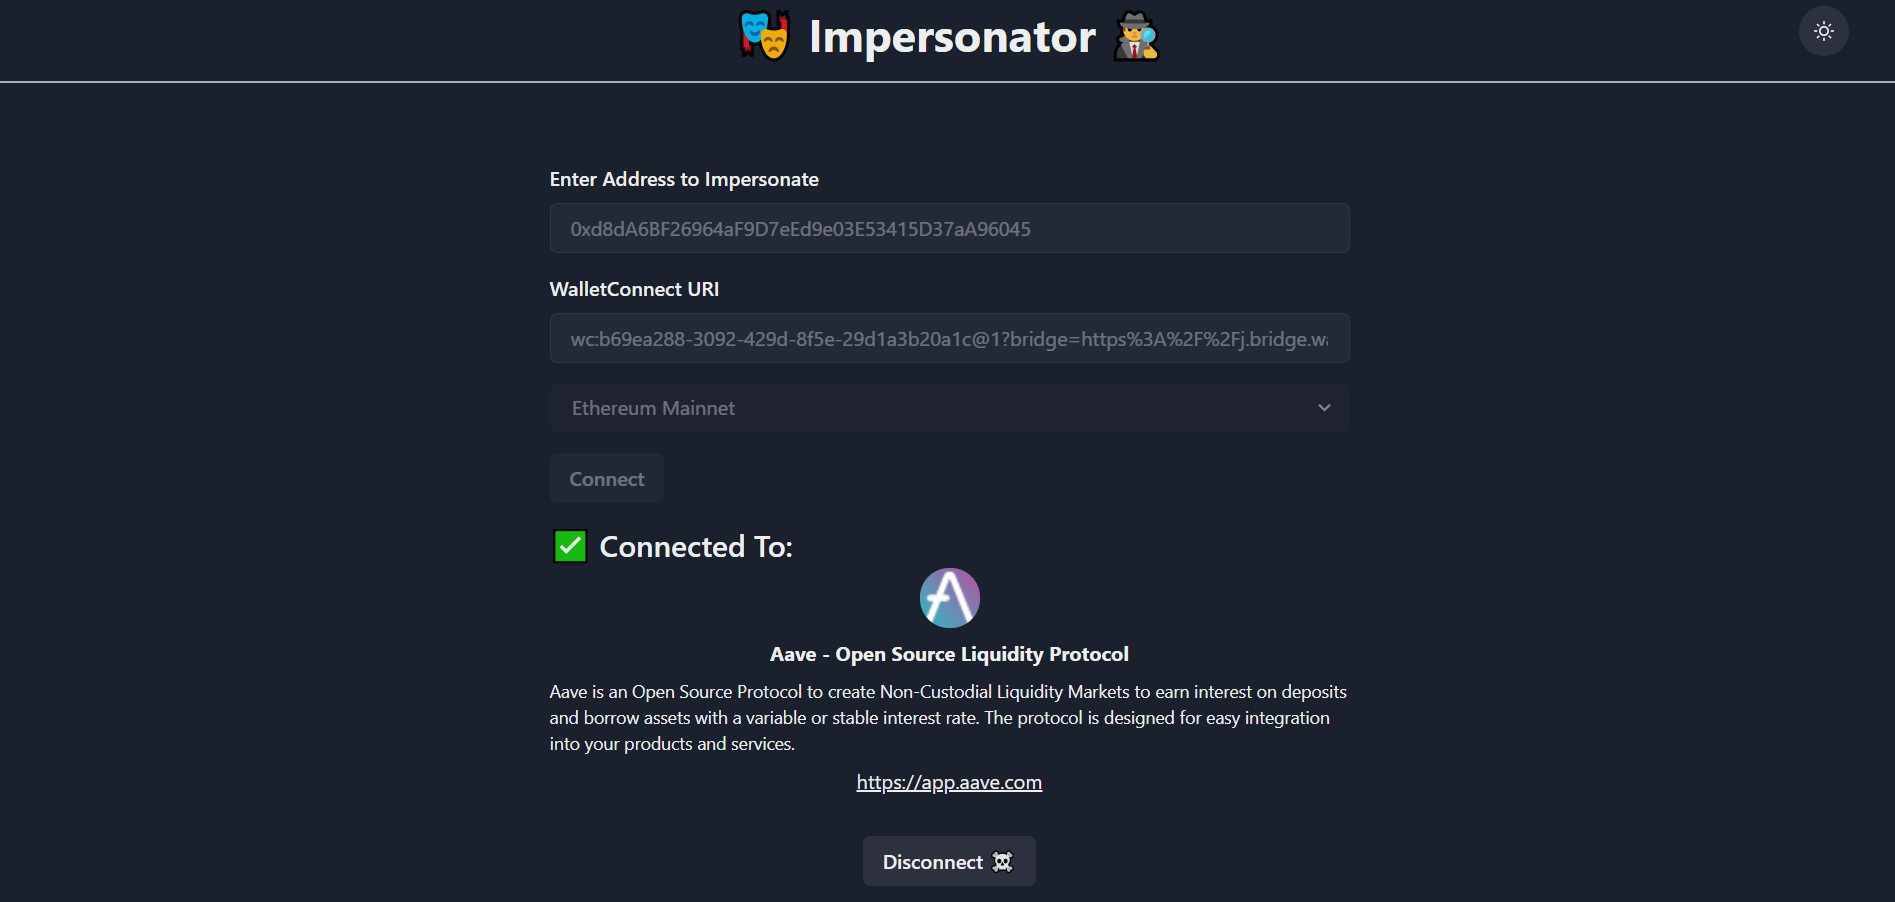
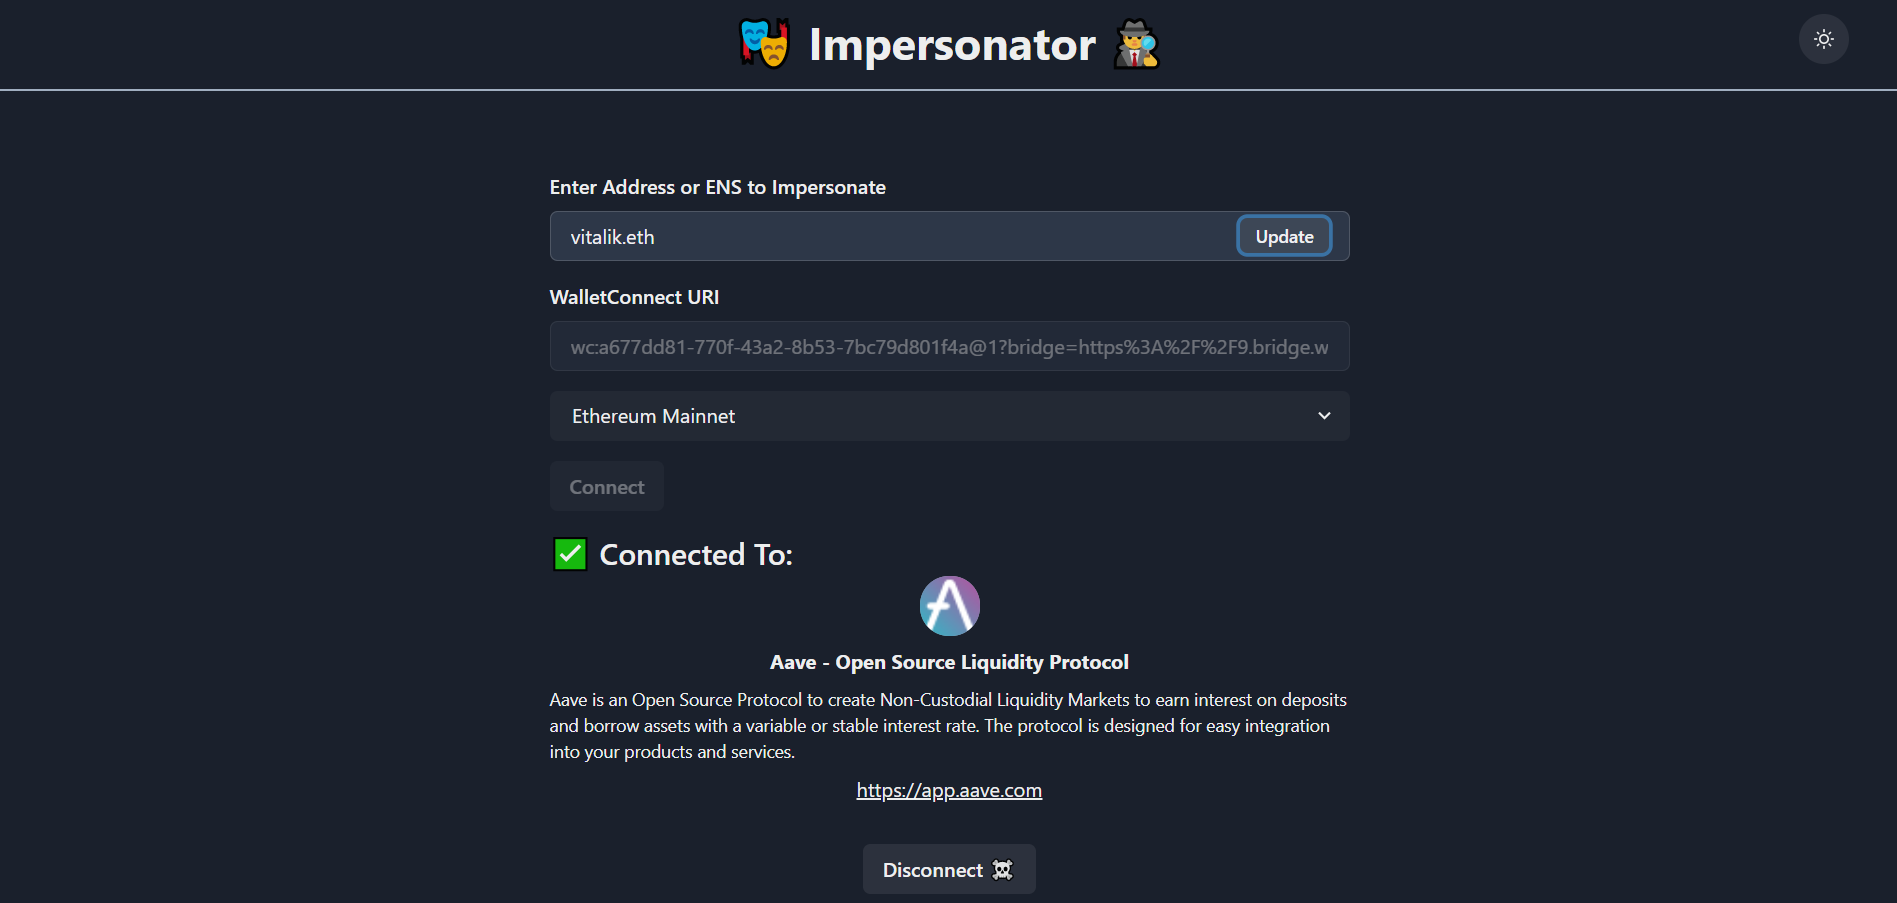
Update README
* Add installation instructions
* Updated UI Screenshot

diff --git a/README.md b/README.md
@@ -13,3 +13,14 @@
 ![demo-by-address](./.github/demo-address-connected.png)
 
 (PS: Users won't be able to transact (obviously) as no private keys are being used here)
+
+## Local Installation
+
+1. Install required packages <br/>
+   `yarn install`
+
+2. Start local development server <br />
+   `yarn start`
+
+3. Build react project <br />
+   `yarn build`
